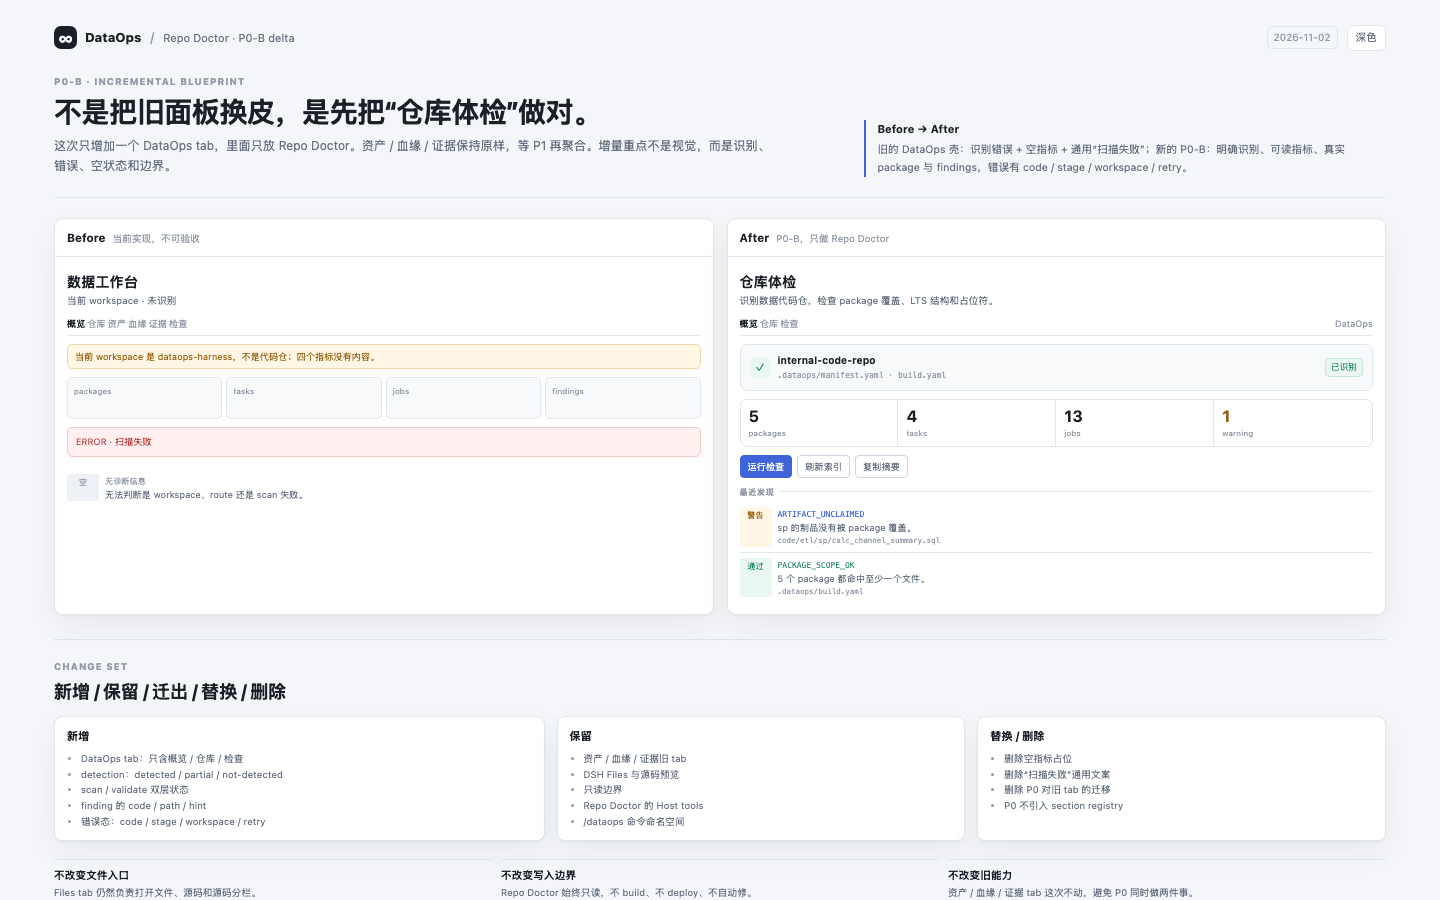
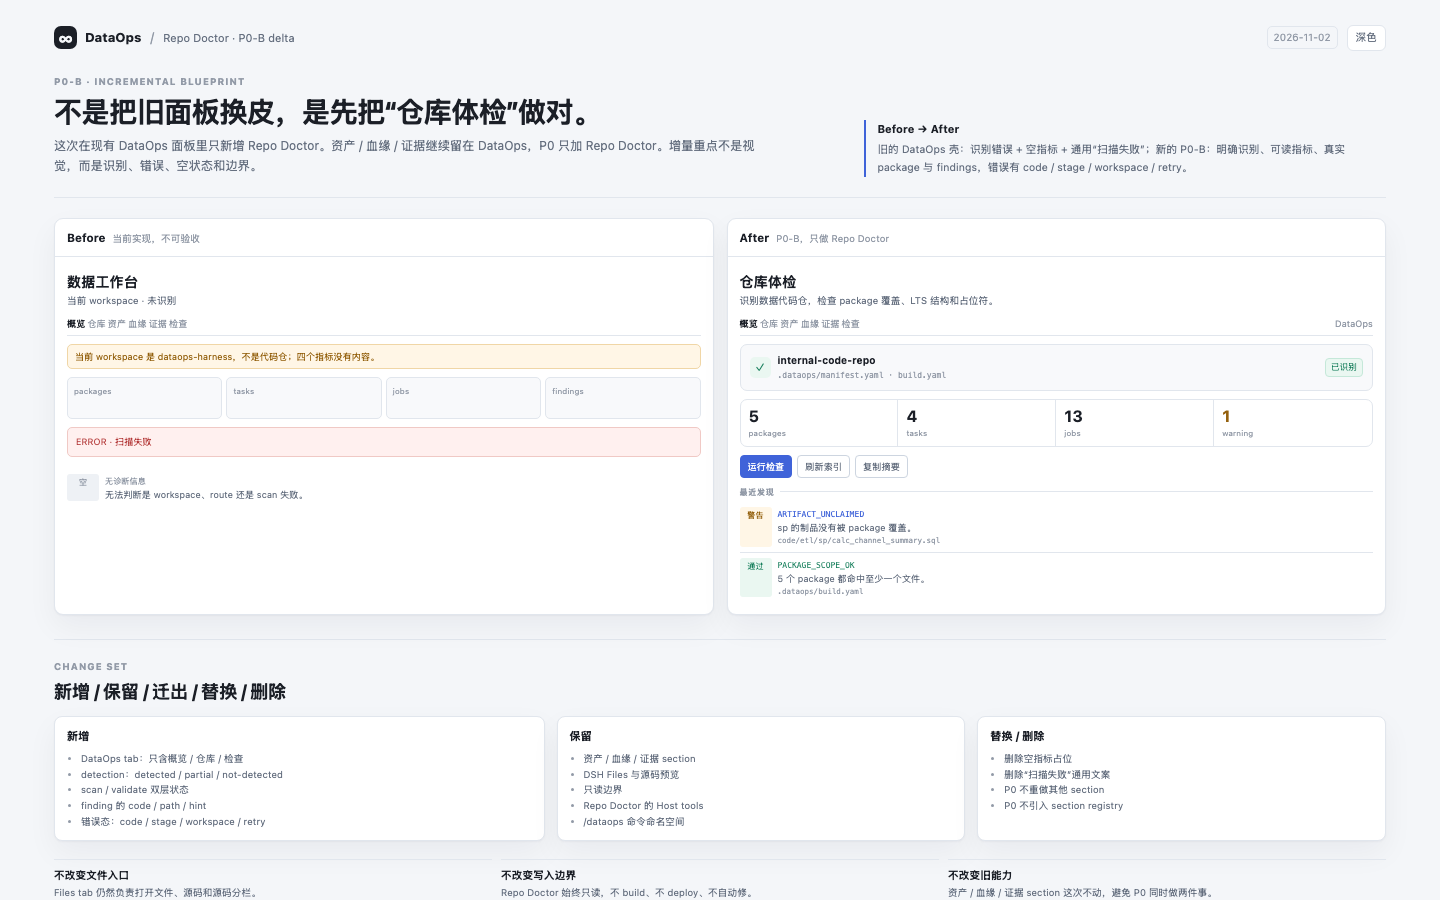
docs: align P0-B blueprint with DataOps aggregation

diff --git a/prototype/dataops-repo-doctor-blueprint-delta.html b/prototype/dataops-repo-doctor-blueprint-delta.html
@@ -26,7 +26,7 @@
 <div class="page">
   <header class="top"><div class="brand"><span class="mark">∞</span><span>DataOps</span></div><span class="slash">/</span><span class="crumb">Repo Doctor · P0-B delta</span><span class="spacer"></span><span class="version">2026-11-02</span><button class="theme" id="theme">深色</button></header>
   <section class="hero">
-    <div><div class="eyebrow">P0-B · incremental blueprint</div><h1>不是把旧面板换皮，是先把“仓库体检”做对。</h1><p>这次只增加一个 DataOps tab，里面只放 Repo Doctor。资产 / 血缘 / 证据保持原样，等 P1 再聚合。增量重点不是视觉，而是识别、错误、空状态和边界。</p></div>
+    <div><div class="eyebrow">P0-B · incremental blueprint</div><h1>不是把旧面板换皮，是先把“仓库体检”做对。</h1><p>这次在现有 DataOps 面板里只新增 Repo Doctor。资产 / 血缘 / 证据继续留在 DataOps，P0 只加 Repo Doctor。增量重点不是视觉，而是识别、错误、空状态和边界。</p></div>
     <div class="scope"><b>Before → After</b>旧的 DataOps 壳：识别错误 + 空指标 + 通用“扫描失败”；新的 P0-B：明确识别、可读指标、真实 package 与 findings，错误有 code / stage / workspace / retry。</div>
   </section>
 
@@ -46,7 +46,7 @@
       <div class="side-head"><b>After</b><span>P0-B，只做 Repo Doctor</span></div>
       <div class="panel">
         <div class="panel-title">仓库体检</div><div class="panel-sub">识别数据代码仓，检查 package 覆盖、LTS 结构和占位符。</div>
-        <div class="before-tabs"><span>概览</span><span>仓库</span><span>检查</span><span style="margin-left:auto">DataOps</span></div>
+        <div class="before-tabs"><span>概览</span><span>仓库</span><span>资产</span><span>血缘</span><span>证据</span><span>检查</span><span style="margin-left:auto">DataOps</span></div>
         <div class="detect"><span class="ico">✓</span><div class="main"><b>internal-code-repo</b><span class="path">.dataops/manifest.yaml · build.yaml</span></div><span class="chip green">已识别</span></div>
         <div class="metrics"><div class="metric"><b>5</b><span>packages</span></div><div class="metric"><b>4</b><span>tasks</span></div><div class="metric"><b>13</b><span>jobs</span></div><div class="metric amber"><b>1</b><span>warning</span></div></div>
         <div class="actions"><button class="btn primary">运行检查</button><button class="btn">刷新索引</button><button class="btn">复制摘要</button></div>
@@ -61,17 +61,17 @@
     <div class="eyebrow">CHANGE SET</div><h2>新增 / 保留 / 迁出 / 替换 / 删除</h2>
     <div class="change-grid">
       <div class="change-col"><h3>新增</h3><ul><li>DataOps tab：只含概览 / 仓库 / 检查</li><li>detection：detected / partial / not-detected</li><li>scan / validate 双层状态</li><li>finding 的 code / path / hint</li><li>错误态：code / stage / workspace / retry</li></ul></div>
-      <div class="change-col"><h3>保留</h3><ul><li>资产 / 血缘 / 证据旧 tab</li><li>DSH Files 与源码预览</li><li>只读边界</li><li>Repo Doctor 的 Host tools</li><li>/dataops 命令命名空间</li></ul></div>
-      <div class="change-col"><h3>替换 / 删除</h3><ul><li>删除空指标占位</li><li>删除“扫描失败”通用文案</li><li>删除 P0 对旧 tab 的迁移</li><li>P0 不引入 section registry</li></ul></div>
+      <div class="change-col"><h3>保留</h3><ul><li>资产 / 血缘 / 证据 section</li><li>DSH Files 与源码预览</li><li>只读边界</li><li>Repo Doctor 的 Host tools</li><li>/dataops 命令命名空间</li></ul></div>
+      <div class="change-col"><h3>替换 / 删除</h3><ul><li>删除空指标占位</li><li>删除“扫描失败”通用文案</li><li>P0 不重做其他 section</li><li>P0 不引入 section registry</li></ul></div>
     </div>
-    <div class="invariants"><div class="invariant"><b>不改变文件入口</b>Files tab 仍然负责打开文件、源码和源码分栏。</div><div class="invariant"><b>不改变写入边界</b>Repo Doctor 始终只读，不 build、不 deploy、不自动修。</div><div class="invariant"><b>不改变旧能力</b>资产 / 血缘 / 证据 tab 这次不动，避免 P0 同时做两件事。</div></div>
+    <div class="invariants"><div class="invariant"><b>不改变文件入口</b>Files tab 仍然负责打开文件、源码和源码分栏。</div><div class="invariant"><b>不改变写入边界</b>Repo Doctor 始终只读，不 build、不 deploy、不自动修。</div><div class="invariant"><b>不改变旧能力</b>资产 / 血缘 / 证据 section 这次不动，避免 P0 同时做两件事。</div></div>
   </section>
 
   <section class="phases">
     <div class="eyebrow">SEQUENCE</div><h2>先 B，再谈聚合</h2>
-    <div class="phase-row"><b>P0-B</b><span>Repo Doctor 单 tab + 真实 scan / validate 结果。</span><span>通过：5 packages / 4 tasks / 13 jobs；错误态可诊断；旧 tab 不受影响。</span></div>
+    <div class="phase-row"><b>P0-B</b><span>DataOps 内新增 Repo Doctor section + 真实 scan / validate 结果。</span><span>通过：5 packages / 4 tasks / 13 jobs；错误态可诊断；资产 / 血缘 / 证据 section 不受影响。</span></div>
     <div class="phase-row"><b>P0.1</b><span>修复 Host route / Session cwd / scan 错误。</span><span>所有结果来自当前 Session，不接受任意 root。</span></div>
-    <div class="phase-row"><b>P1</b><span>再把资产 / 血缘 / 证据迁入 DataOps，引入 section registry。</span><span>这时才讨论“单面板替代旧 tab”。</span></div>
+    <div class="phase-row"><b>P1</b><span>保持 DataOps 聚合，补统一 section registry 和视觉收口。</span><span>这时才讨论各 section 的统一布局。</span></div>
     <div class="phase-row"><b>P1.1</b><span>Placeholder / Env Guard、LTS Guard。</span><span>作为同一个 checks section 的规则扩展。</span></div>
   </section>
 

diff --git a/prototype/dataops-repo-doctor-blueprint.html b/prototype/dataops-repo-doctor-blueprint.html
@@ -272,7 +272,7 @@
       <p class="lede">Repo Doctor 是 DataOps tab 里的仓库体检视图。它只回答：当前 workspace 能不能被识别、有哪些 package 和 task、哪些地方会阻断构建或部署。它不接管文件浏览、源码预览和血缘。</p>
     </div>
     <div class="hero-side">
-      <div class="scope"><b>本轮边界</b>只新增 DataOps tab · 旧资产 / 血缘 / 证据 tab 保持不动 · 不做对话大卡 · 不做 IDE</div>
+      <div class="scope"><b>本轮边界</b>只新增 Repo Doctor 能力 · 资产 / 血缘 / 证据继续留在 DataOps · 不做对话大卡 · 不做 IDE</div>
     </div>
   </section>
 
@@ -317,6 +317,9 @@
         <div class="panel-nav" role="tablist">
           <button data-section="overview" data-active="true">概览</button>
           <button data-section="repo">仓库</button>
+          <button data-section="assets">资产</button>
+          <button data-section="lineage">血缘</button>
+          <button data-section="evidence">证据</button>
           <button data-section="checks">检查</button>
         </div>
         <div class="panel-body" id="overviewBody"></div>
@@ -400,7 +403,7 @@
       <li>未识别时只提示正确 workspace，不递归搜索</li>
       <li>占位符缺失为 warning，不是 blocking</li>
       <li>错误态展示 code / stage / workspace / 重试</li>
-      <li>旧资产 / 血缘 / 证据 tab 不受影响</li>
+      <li>资产 / 血缘 / 证据 section 留在 DataOps 且不受影响</li>
       <li>/dataops 不产生对话大卡</li>
       <li>只读，不执行 build / deploy</li>
     </ol>

diff --git a/docs/design/dataops-plugin-surface.md b/docs/design/dataops-plugin-surface.md
@@ -1,6 +1,6 @@
 # DataOps 插件聚合设计
 
-> 状态：P0-B 实现中；只做 Repo Doctor，不迁移旧 tab。
+> 状态：P0-B 实现中；新增 Repo Doctor，DataOps 仍聚合资产 / 血缘 / 证据。
 > 关联：`docs/design/dataops-plugin-roadmap.md`、`docs/design/repo-doctor.md`
 
 ## 1. 问题
@@ -16,7 +16,7 @@
 
 ## 2. P0-B 结论
 
-P0 只做一个 **Repo Doctor 面板**，不迁移现有资产/血缘/证据 tab。
+P0 只新增 Repo Doctor 能力；现有资产/血缘/证据仍留在 DataOps 面板，不迁出。
 
 ```text
 DSH Files tab        保持 DSH 文件浏览
@@ -25,10 +25,10 @@ DataOps tab          新增 Repo Doctor
   ├─ 仓库
   └─ 检查
 
-旧 tab               资产 / 血缘 / 证据暂时保留
+DataOps 内已有        资产 / 血缘 / 证据继续保留
 ```
 
-P0 不实现统一 section registry；P1 再把这些 section 合并到一个 DataOps 面板。
+P0 不实现统一 section registry；现有 section 继续共存，P1 再统一。
 
 先把 Repo Doctor 的数据、状态、错误和命令跑通，再谈聚合。
 
@@ -107,7 +107,7 @@ P0 只有一个新 tab：
 概览 / 仓库 / 检查
 ```
 
-旧的资产 / 血缘 / 证据 tab 暂时不动，避免 P0 同时做聚合和仓库能力。
+资产 / 血缘 / 证据 section 继续留在 DataOps，避免 P0 同时重做它们。
 
 ### Composer
 
@@ -180,7 +180,7 @@ section 负责：
 | repo | package、制品、文件覆盖 |
 | checks | findings、扫描结果、警告 |
 
-assets / lineage / evidence 在 P0 不进入这个 tab；迁移到 P1。
+assets / lineage / evidence 继续留在 DataOps；P0 只新增 Repo Doctor。
 
 ## 6. 刷新模型
 
@@ -205,18 +205,18 @@ open panel
 
 ### P0-B：Repo Doctor
 
-- 新增一个独立 DataOps tab
-- 只有概览 / 仓库 / 检查
-- 旧资产 / 血缘 / 证据继续保留
+- 扩展现有 DataOps 面板
+- 新增概览 / 仓库 / 检查三块 Repo Doctor 视图
+- 资产 / 血缘 / 证据 section 继续保留
 - 不做 section registry
 - 不做对话大卡
 - `/dataops` 先服务 Repo Doctor
 
-### P1：聚合
+### P1：统一
 
-- 把旧资产 / 血缘 / 证据迁入 DataOps
+- 保持 DataOps 单面板
 - 引入统一 section registry
-- 再决定是否移除旧 tab
+- 统一各 section 的布局和空状态
 
 ## 8. 设计约束
 

diff --git a/README.md b/README.md
@@ -42,6 +42,8 @@ P3 可视化：[0+1 → Stage 3 蓝图](prototype/stage0-3-implementation-bluepr
 
 P0-B Repo Doctor：[全量蓝图](prototype/dataops-repo-doctor-blueprint.html) · [增量](prototype/dataops-repo-doctor-blueprint-delta.html) · [设计](docs/design/repo-doctor.md)。
 
+DataOps Dev P2 Agent 共同编辑：[设计](docs/design/dataops-dev-agent-collaboration.md) · [ADR 0015](docs/decisions/0015-dataops-dev-agent-collaboration.md) · [全量蓝图](prototype/dataops-dev-agent-collaboration-blueprint.html) · [P1 → P2 增量](prototype/dataops-dev-agent-collaboration-blueprint-delta.html)。
+
 验收清单：[P1 + P2 验收](docs/verification/p1-p2-acceptance.md)。
 
 可视化：[Agent 架构全量蓝图](prototype/agent-architecture.html) · [v2 → Agent v1 增量](prototype/agent-architecture-delta.html)。

diff --git a/docs/design/README.md b/docs/design/README.md
@@ -40,6 +40,10 @@
 - [Repo Doctor 详细设计](repo-doctor.md)
   - [P0-B 全量蓝图](../../prototype/dataops-repo-doctor-blueprint.html)
   - [P0-B 增量蓝图](../../prototype/dataops-repo-doctor-blueprint-delta.html)
+- [DataOps Dev P2 Agent 共同编辑设计](dataops-dev-agent-collaboration.md)
+  - [ADR 0015](../decisions/0015-dataops-dev-agent-collaboration.md)
+  - [P2 全量蓝图](../../prototype/dataops-dev-agent-collaboration-blueprint.html)
+  - [P1 → P2 增量蓝图](../../prototype/dataops-dev-agent-collaboration-blueprint-delta.html)
 
 ### 架构
 

diff --git a/docs/design/dataops-plugin-roadmap.md b/docs/design/dataops-plugin-roadmap.md
@@ -37,7 +37,7 @@ DataOps 插件优先解决 Agent 的**真实工作缺口**，而不是重做 IDE
 ## 2.1 P0-B 表面原则
 
 - P0 只新增一个 Repo Doctor DataOps tab
-- 旧资产 / 血缘 / 证据 tab 暂不迁移
+- 资产 / 血缘 / 证据 section 继续留在 DataOps
 - 不做对话大卡
 - 一个 `/dataops` 命令命名空间
 - 聚合到单面板放到 P1
